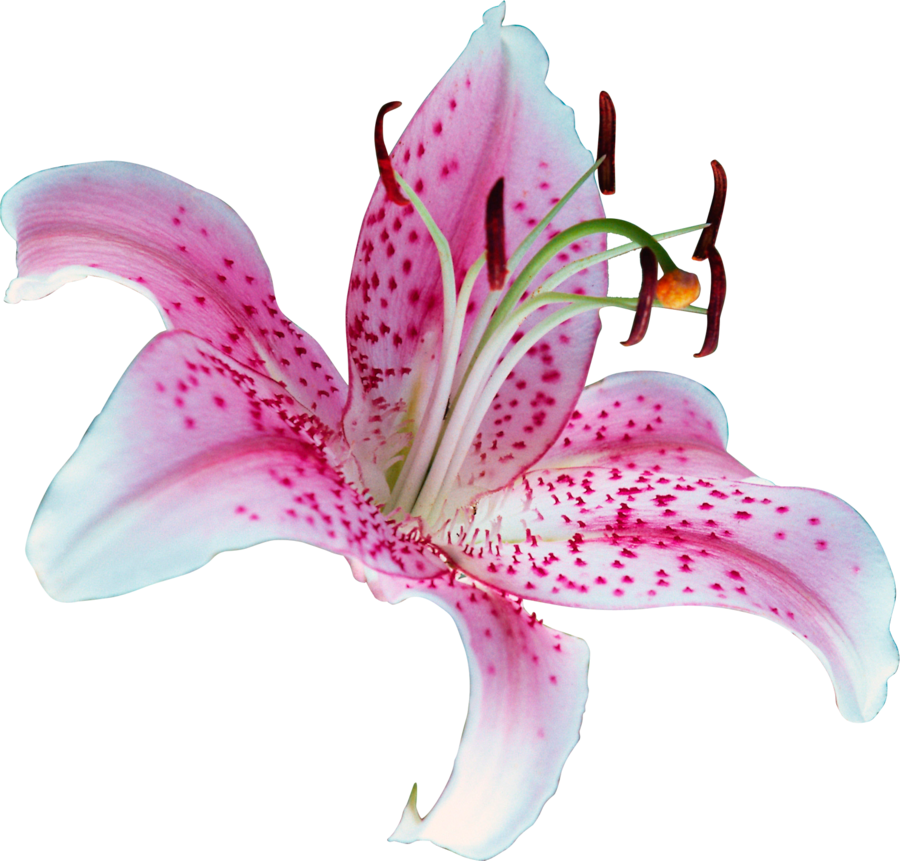
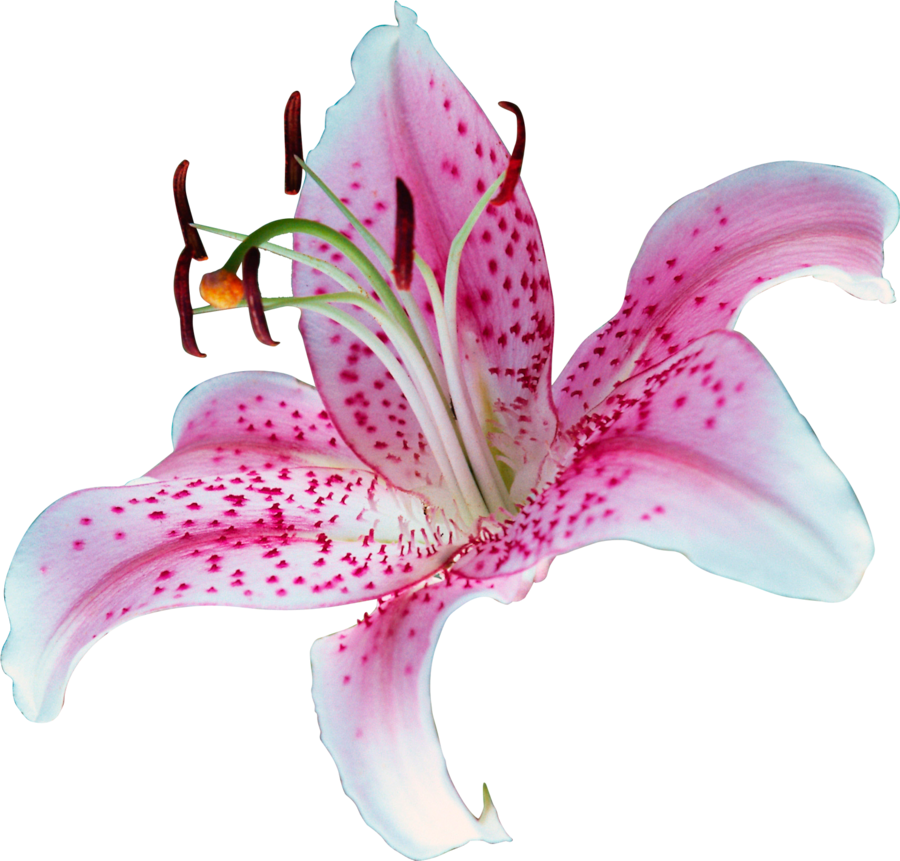
change images

diff --git a/index.html b/index.html
@@ -69,7 +69,7 @@
         .scallop     { width: 13%; top: 3%;   left: 4%; }
         .iris        { width: 15%; top: 4%;   left: 20%; }
         .mcqueen     { width: 15%; top: 4%;   left: 33%; }
-        .hummingbird { width: 15%; top: 3%;   left: 55%; }
+        .hummingbird { width: 15%; top: 3%;   left: 35%; }
         .orchid      { width: 14%; top: 2%;   left: 63%; }
         .bunny       { width: 14%; top: 5%;   left: 83%; }
 
